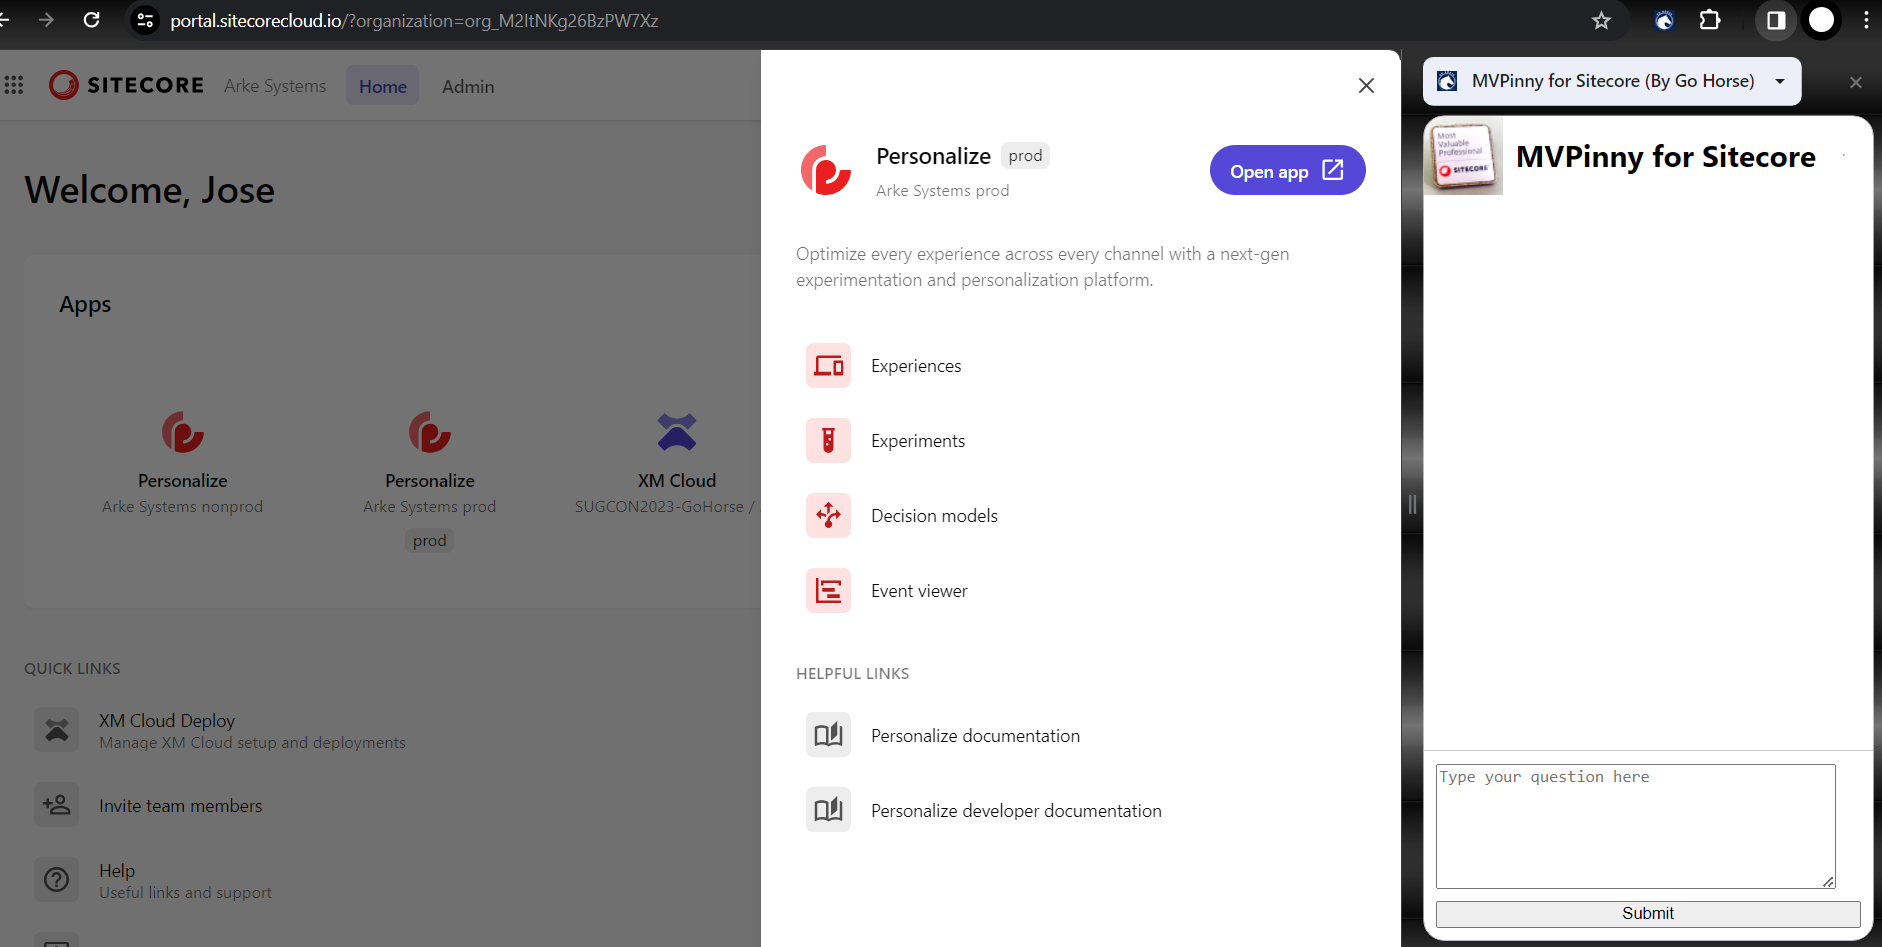
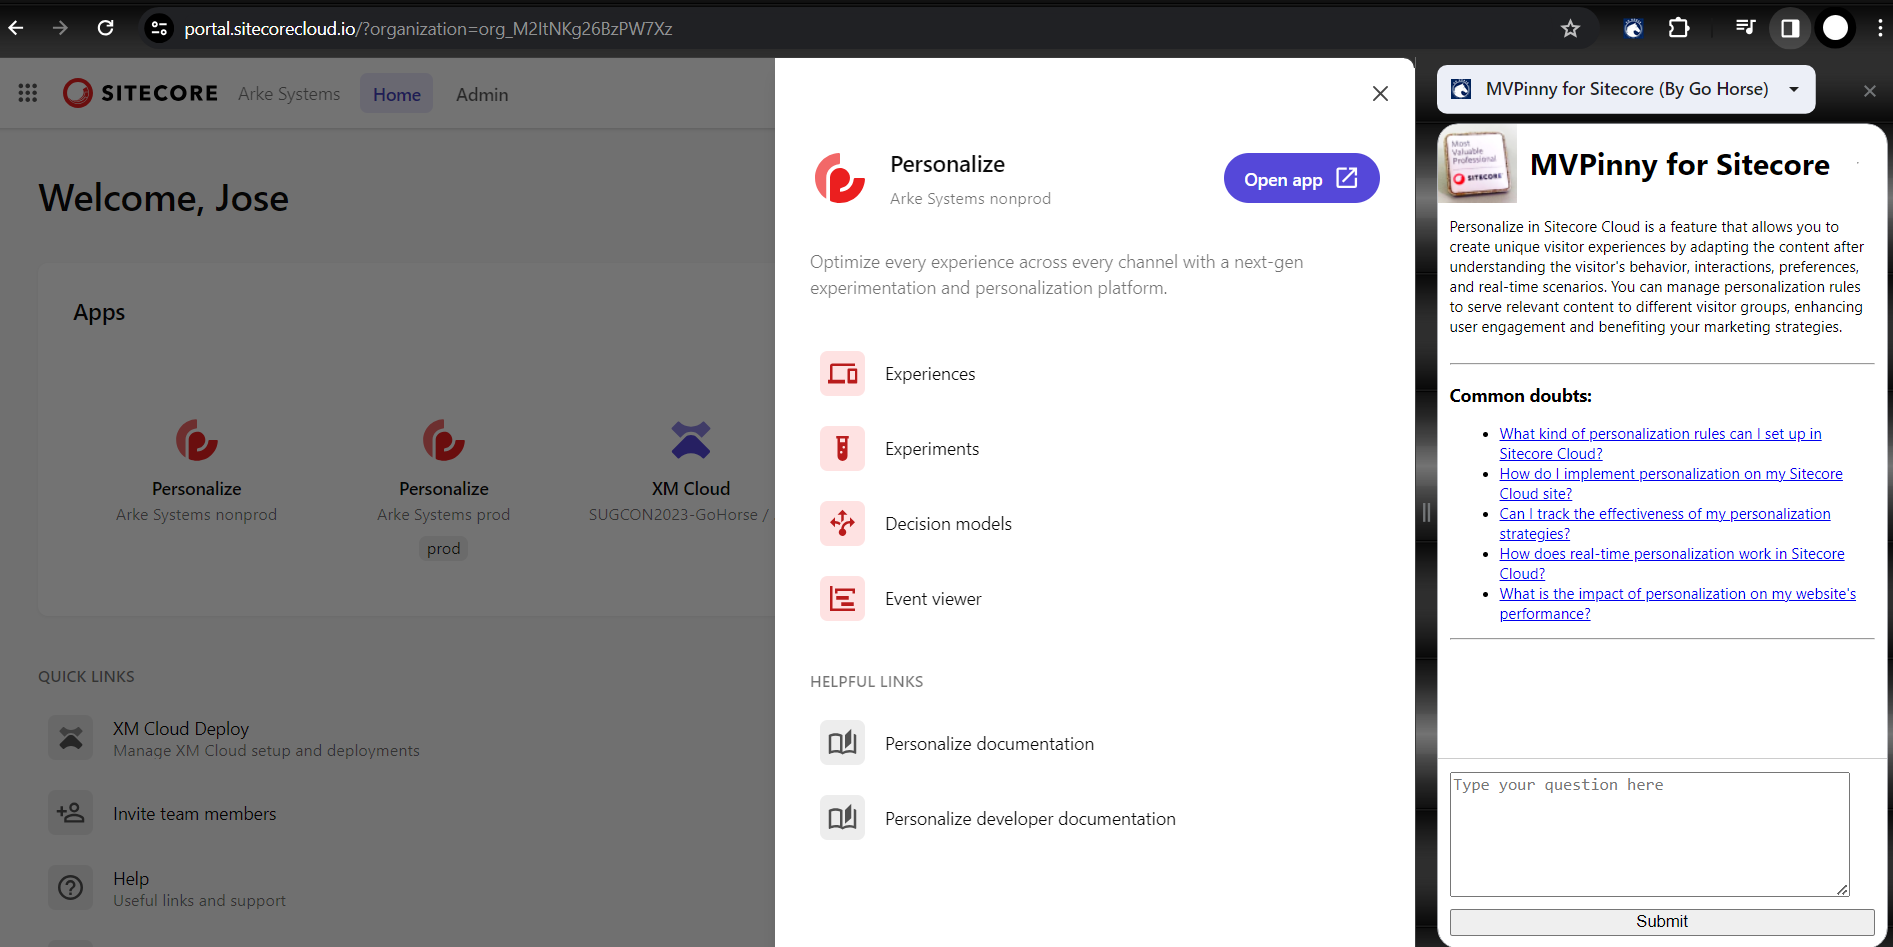
readme

diff --git a/README.md b/README.md
@@ -72,9 +72,10 @@ you will see the plugin on your bar<br/>
 The critical setup involves the selection of both the "OpenAI Key" and the "model." However, there were already configured in previous steps<br> If necessary, these selections can be modified by right-clicking on the "Mvp Pinny" logo in the Extensions bar and selecting options.
 
 ## Usage instructions
-1. Open Sitecore ex: https://portal.sitecorecloud.io<br/>
+1. Open Sitecore ex: https://cm.sitecore https://portal.sitecorecloud.io<br/>
 2. Click Extensions, on the "Go-Horse-Icon"<br/>
 3. Mouse over the selected function or type or questions<br/>
+![alt text](docs/images/sitecore10.png)
 ![alt text](docs/images//mvppinny.png)
 
 
